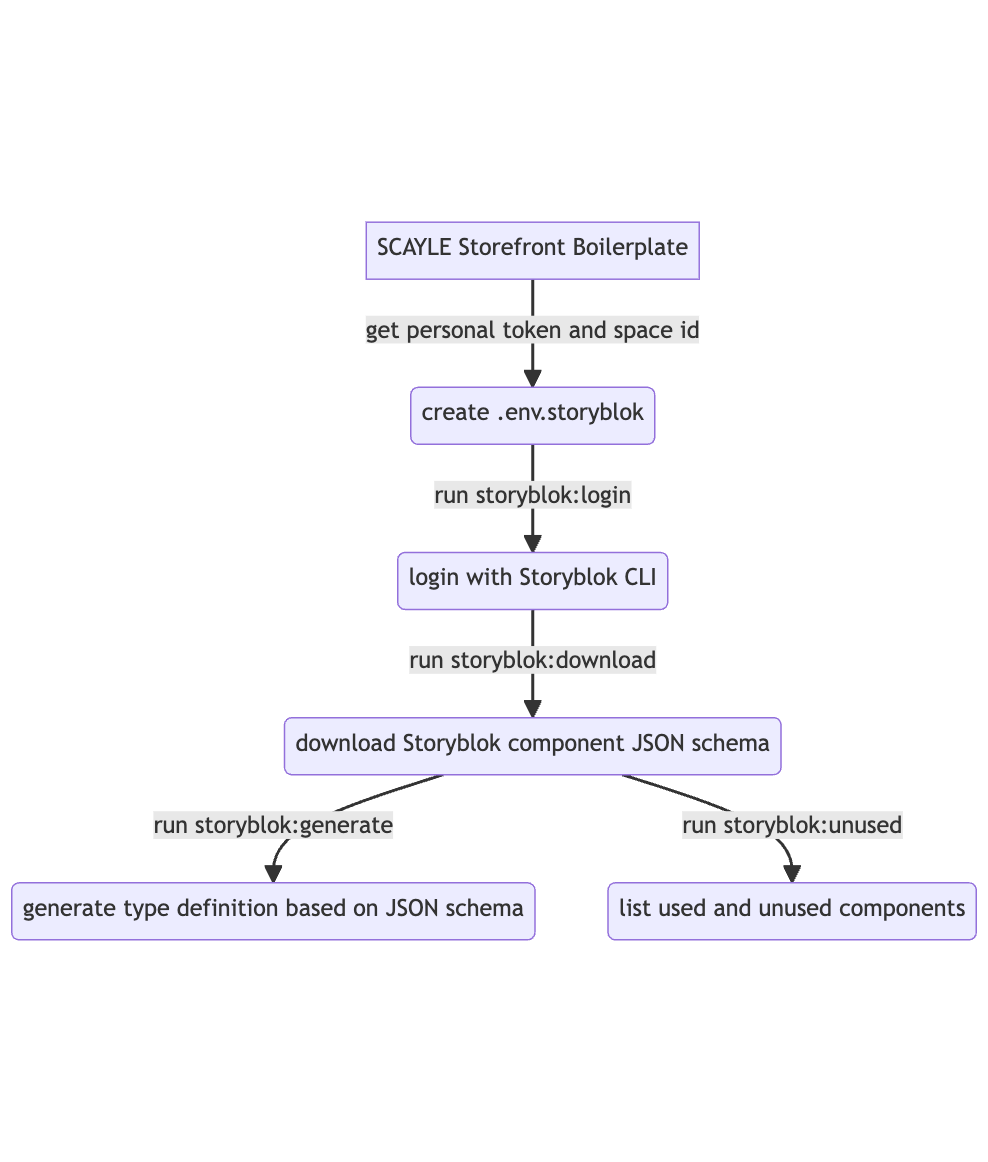
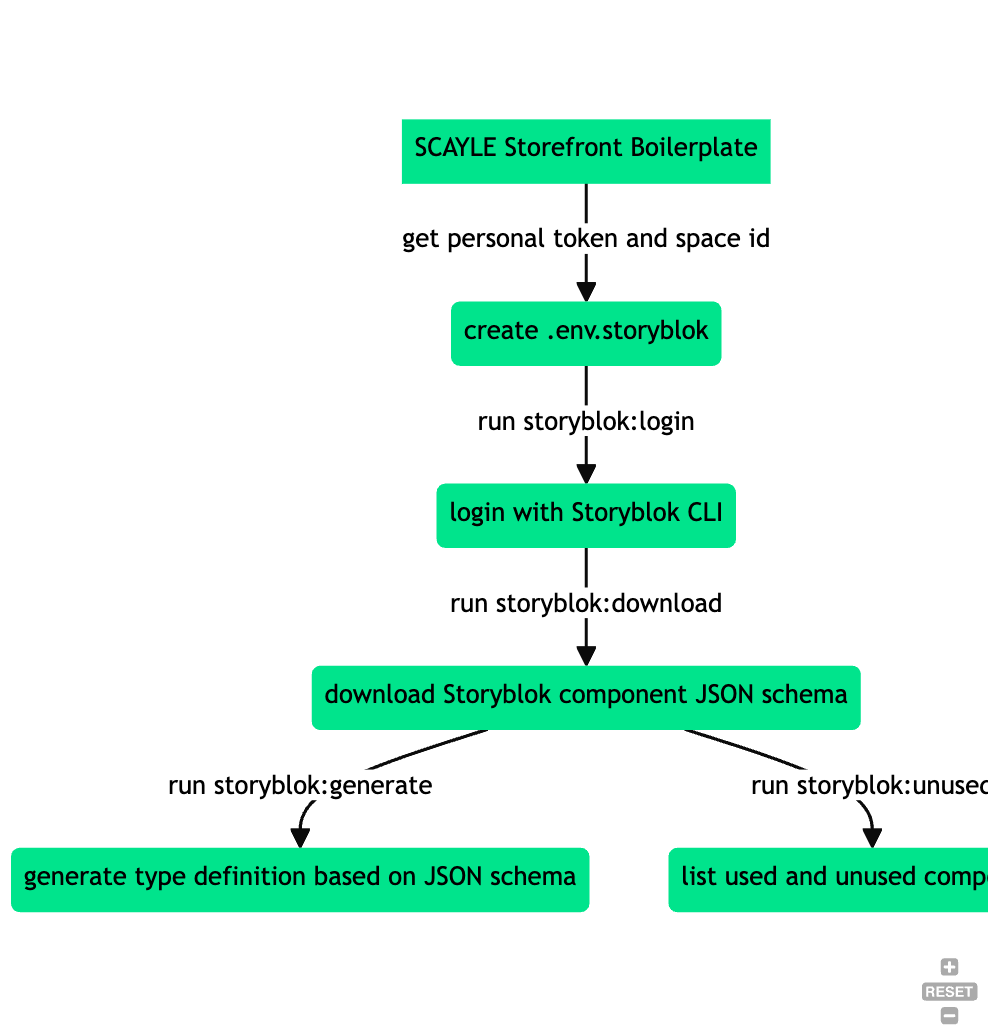
docs(sfc): update technical storyblok documentation

Changed region(s): [[0.0, 0.093, 1.0, 0.8992], [0.9413, 0.9302, 1.0, 0.9922]]

diff --git a/docs/features/00_feature_cms-storyblok.md b/docs/features/00_feature_cms-storyblok.md
@@ -13,7 +13,7 @@ it is the one we recommend to new customers.
 ### Quick links
 
 - [Developer Guides](https://www.storyblok.com/docs/guide/introduction)
-- [Editor Guides](https://www.storyblok.com/docs/editor-guideshttps://www.storyblok.com/docs/editor-guides)
+- [Editor Guides](https://www.storyblok.com/docs/editor-guides)
 - [Storyblok Walkthrough (YouTube)](https://www.youtube.com/watch?v=902M1Pt6yW8)
 
 ## Out-of-the-Box components
@@ -105,12 +105,12 @@ _NOTE:_ For an actual reference which values are optional and what value types a
   - `is_containered`: accepts a boolean
   - `is_containered_desktop`: accepts a boolean
   - `is_spaced`: accepts a boolean
-  - `columns`: accepts a reference to a placable Storyblok component
+  - `columns`: accepts a reference to a Storyblok component
 
 ### Component: `GridTile`
 
 - _Options:_
-  - `content`: accepts a reference to a placable Storyblok component
+  - `content`: accepts a reference to a Storyblok component
   - `headline`: accepts a string
   - `cta`: accepts a string
   - `cta_link`: accepts a link
@@ -193,10 +193,10 @@ _NOTE:_ For an actual reference which values are optional and what value types a
 - _Options:_
   - `teaser_image`: accepts an image or video
   - `teaser_image_mobile`: accepts an image or video
-  - `pre_listing_content`: accepts a list of references to placable Storyblok components
+  - `pre_listing_content`: accepts a list of references to Storyblok components
   - `listing`: accepts a list of `SbListingDisruptor`
   - `SEO`: accepts a meta data object
-  - `post_listing_content`: accepts a list of references to placable Storyblok components
+  - `post_listing_content`: accepts a list of references to Storyblok components
 
 ### Area: Service Pages
 
@@ -223,7 +223,7 @@ _NOTE:_ For an actual reference which values are optional and what value types a
   - `teaser_image_mobile`: accepts an image or video
   - `headline`: accepts a string
   - `subline`: accepts a string
-  - `content`: accepts a list of references to placable Storyblok components
+  - `content`: accepts a list of references to Storyblok components
   - `listing`: accepts a list of `SbListingDisruptor`
   - `SEO`: accepts a meta data object
 
@@ -287,8 +287,8 @@ _NOTE:_ For an actual reference which values are optional and what value types a
 ### Component: `DoubleColumn`
 
 - _Options:_
-  - `column_left`: accepts references to placable Storyblok components
-  - `column_left`: accepts references to placable Storyblok components
+  - `column_left`: accepts references to Storyblok components
+  - `column_left`: accepts references to Storyblok components
   - `margin_top`: accepts a string
 
 ### Component: `Paragraph`
@@ -302,7 +302,7 @@ _NOTE:_ For an actual reference which values are optional and what value types a
 
 ## Technical Implementation Details
 
-The Storyblok integration with the SCAYLE Storefront Boilerplate can be separated by concerns of local development (using `storyblok` cli) and shop runtime (using `@storyblok/nuxt`).
+The Storyblok integration with the SCAYLE Storefront Boilerplate can be separated by concerns of local development (using `storyblok` CLI) and shop runtime (using `@storyblok/nuxt`).
 
 ### Initial development setup
 
@@ -331,9 +331,9 @@ As part of the Storefront Boilerplate `package.json`, some additional scripts ar
 - `storyblok:generate`
   - Uses the downloaded components JSON schema and transforms it into TypeScript types (See section ["Type Definitions"](#type-definitions))
 - `storyblok:login`
-  - Authenticated local development environment with Storyblok CLI
+  - Authenticates local development environment with Storyblok CLI
 - `storyblok:unused`
-  - Outputs overview used and unused Storyblok components
+  - Outputs overview of used and unused Storyblok components
 
 While `storyblok:download` and `storyblok:login` are directly utilizing the Storyblok CLI,
 `storyblok:generate` and `storyblok:unused` are executing dedicated `.cjs` scripts.
@@ -345,7 +345,7 @@ The JSON schema needs to be downloaded before running this command.
 
 The generated TypeScript type definition will be located at `storyblok/types/storyblok.gen.d.ts`.
 
-To create the generated type definition, the script uses a custom internal NPM package called `@aboutyou/storyblok-generate-ts`, which provides a configurable transformation function `storyblokToTypescript()`.This function facilitates the actual transformation of the JSON schema and outputs the type definition based on the passed configuration object, which is pre-configured for usage with the SCAYLE Storefront Boilerplate.
+To create the generated type definition, the script uses a NPM package called `storyblok-generate-ts`, which provides a configurable transformation function `storyblokToTypescript()`.This function facilitates the actual transformation of the JSON schema and outputs the type definition based on the passed configuration object, which is pre-configured for usage with the SCAYLE Storefront Boilerplate.
 
 #### storyblok:unused
 
@@ -367,6 +367,18 @@ To synchronize a project that is based on the SCAYLE Storefront Boilerplate duri
 ![scayle-sfb_storyblok-local-dev-flow.png](img/scayle-sfb_storyblok-local-dev-flow.png)
 
 ```mermaid
+%%{
+  init: {
+    'theme': 'base',
+    'themeVariables': {
+      'primaryColor': '#00E48C',
+      'primaryTextColor': '#000',
+      'primaryBorderColor': '#00E48C',
+      'tertiaryColor': '#fff',
+      'edgeLabelBackground': '#fff'
+    }
+  }
+}%%
 flowchart TD
     A[SCAYLE Storefront Boilerplate] -->|get personal token and space id| B(create .env.storyblok)
     B -->|run storyblok:login| C(login with Storyblok CLI)
@@ -378,7 +390,7 @@ flowchart TD
 ### Basic Composables and Helpers
 
 To simplify the usage of certain functionalities with Storyblok components, the SCAYLE Storefront Boilerplate
-included a few simple reusable composables:
+includes a few simple reusable composables:
 
 - `storyblok/composables/useCmsAlignment.ts`
   - Provides Tailwind-compatible alignment classes to be used with Storyblok components
@@ -397,24 +409,24 @@ The configuration can be extended under the `storyblok` key as part of the `nuxt
 Please refer to the [official Storyblok module documentation](https://github.com/storyblok/storyblok-nuxt#options) for more information and configuration options.
 
 The default configuration only set the `STORYBLOK_ACCESS_TOKEN` and enables the `bridge` option.
-The `bridge` option his used for integration with the Nuxt framework and with the Storyblok visual editor.
+The `bridge` option is used for integrating with the Nuxt framework and with the Storyblok visual editor.
 
 The integration additionally relies on the `@nuxt/image` module (See [NuxtImage module documentation](https://image.nuxt.com/)) to handle images used with Storyblok components.
 
 ### Deployment Requirements
 
-At the current time, the `@storyblok/nuxt` module does not provide integration with the Nuxt RuntimeConfig functionality. This means that the `STORYBLOK_ACCESS_TOKEN` needs to be set during build time of the application as an environment variable.
+The `@storyblok/nuxt` module does provide integration with the Nuxt RuntimeConfig functionality. This means that the `NUXT_STORYBLOK_ACCESS_TOKEN` can be set during runtime time of the application as an environment variable, instead of build time.
 
 ### Auto-imported components
 
 Storyblok components are auto imported from the `storyblok/` directory at the root of the project and the components are made available throughout the project.
 Be mindful of component name collisions. If your component in the `~/components` director is named same as the one inside `~/storyblok` there can be issues with the storyblok auto-imported components.
 
-The `StoryBlokComponent` is also auto-imported and can be used out of the box.
+The `StoryblokComponent` is also auto-imported and can be used out of the box.
 
 ### Fetching Storyblok content
 
-Te SCAYLE Storefront Boilerplate provides multiple different way to fetch content from Storyblok.
+The SCAYLE Storefront Boilerplate provides multiple ways to fetch content from Storyblok.
 
 #### useAsyncStoryblok composable
 
@@ -430,8 +442,23 @@ const story = await useAsyncStoryblok(
 
 #### useCms composable
 
-As content from Storyblok allows to be referenced with data provided by SCAYLE, e.g. product data, the SCAYLE Storefront Boilerplate features the `useCms` composable.
-This composable internally relies on the `storyblok-js-client` package to fetch
+As content from Storyblok allows references to data provided by SCAYLE, e.g. product data, the SCAYLE Storefront Boilerplate features the `useCms` composable.
+This composable internally relies on the `storyblok-js-client` package to fetch.
+
+An example usage for getting relevant content might look as follows:
+
+```ts
+const {
+  fetching,
+  fetchBySlug,
+  data: story,
+  status,
+} = useCms(`{content-page-${slug}}`)
+
+if (status.value === 'idle') {
+  await fetchLazy(fetchBySlug(`c/${slug.value}`))
+}
+```
 
 The composable exposes the following data and functions:
 

diff --git a/docs/migration/03_changes-for-demoshop.md b/docs/migration/03_changes-for-demoshop.md
@@ -309,7 +309,7 @@ import storyblok from './config'
 Storyblok components are auto imported. You need to create a `storyblok` directory at the root and the components will be made available.
 Be mindful of component name collisions. If your component in the `~/components` director is named same as the one inside `~/storyblok` there can be issues with the storyblok auto-imported components.
 
-The `StoryBlokComponent` is also auto-imported and can be used out of the box.
+The `StoryblokComponent` is also auto-imported and can be used out of the box.
 
 ### useAsyncStoryblok composable
 
